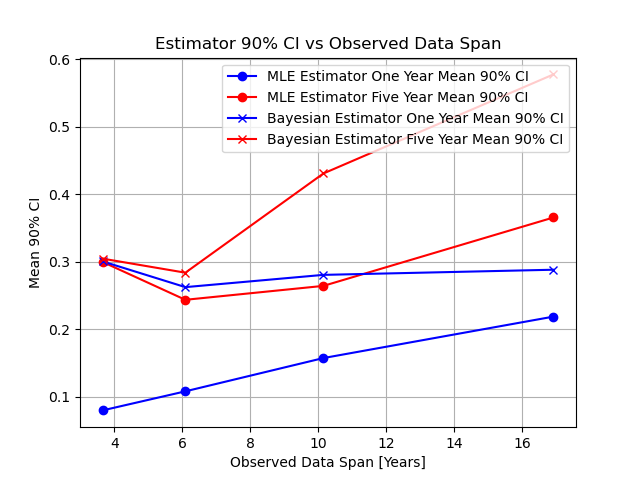
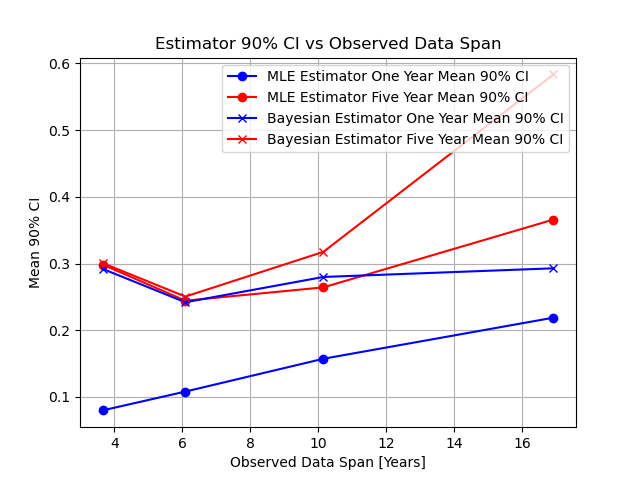
Make affine transform in Bayesian example depend only on the training data.

diff --git a/ARIMA/examples/bayesian.py b/ARIMA/examples/bayesian.py
@@ -16,7 +16,7 @@ from ARIMA.examples.utils import load_data, plots_dir, timeit
 from ARIMA.examples import __name__ as __examples__name__
 from torch.distributions.transforms import ExpTransform, AffineTransform
 
-def create_model(obs_idx, num_predictions):
+def create_model(obs_idx, num_predictions, observations, model_args=(3, 0, 1, 0, 1, 2, 12)):
     # Create model with non-overlapping observed and predicted sample indices.
     predict_idx = [*range(max(obs_idx) + 1 + num_predictions)]
     predict_idx = [idx for idx in predict_idx if idx not in obs_idx]
@@ -24,7 +24,7 @@ def create_model(obs_idx, num_predictions):
     mean_log = observations.log().mean()
     std_log = observations.log().std()
     output_transforms = [AffineTransform(loc=mean_log, scale=std_log), ExpTransform()]
-    return BayesianARIMA(3, 0, 1, 0, 1, 2, 12,
+    return BayesianARIMA(*model_args,
                          obs_idx=obs_idx, predict_idx=predict_idx,
                          output_transforms=output_transforms)
 
@@ -58,7 +58,7 @@ if __name__ == '__main__' or __examples__name__ == '__main__':
     num_predictions = 5 * 12
     obs_idx = range(len(observations))
 
-    model = create_model(obs_idx, num_predictions)
+    model = create_model(obs_idx, num_predictions, observations)
 
     guide = fit(model, observations[model.obs_idx])
 
@@ -107,7 +107,7 @@ if __name__ == '__main__' or __examples__name__ == '__main__':
     for ratio in ratios:
         n = len(observations)
         indices.append(range(round((1 - ratio)*n), n))
-        models.append(create_model([*range(len([*indices[-1]]))], num_predictions))
+        models.append(create_model([*range(len([*indices[-1]]))], num_predictions, observations[indices[-1]]))
         guides.append(fit(models[-1], observations[indices[-1]]))
         predictive = WeighedPredictive(models[-1].predict,
                                        guide=guides[-1],
@@ -168,7 +168,7 @@ if __name__ == '__main__' or __examples__name__ == '__main__':
     for missing_ratio in missing_ratios:
         start_predict = np.floor(missing_ratio * (len(observations) - num_predictions))
         obs_idx = [idx for idx in range(len(observations)) if idx < start_predict or idx >= start_predict + num_predictions]
-        missing_models.append(create_model(obs_idx, len(observations) - max(obs_idx) - 1))
+        missing_models.append(create_model(obs_idx, len(observations) - max(obs_idx) - 1, observations[obs_idx]))
         missing_guides.append(fit(missing_models[-1], observations[obs_idx]))
         predictive = WeighedPredictive(missing_models[-1].predict,
                                        guide=missing_guides[-1],
